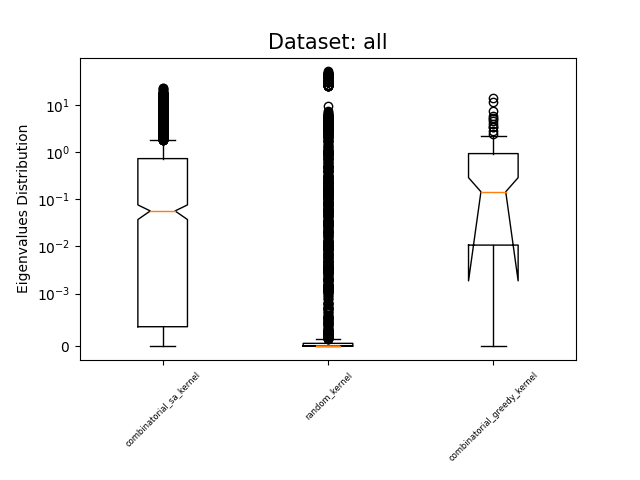
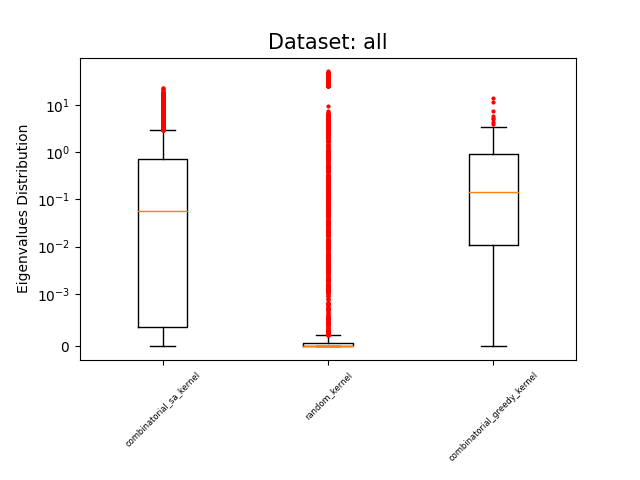
new plots

diff --git a/paper-results-2/combinatorial_spectral_analysis.py b/paper-results-2/combinatorial_spectral_analysis.py
@@ -31,6 +31,7 @@ def plot_kernels_eigenvalues_variance(kernels):
     labels_all = []
     f = plt.figure()
     plt.tight_layout(pad=0.4, w_pad=0.5, h_pad=1.0)
+    red_square = dict(markerfacecolor='r', markersize=3, markeredgewidth=0.0)
 
     for d in kernels.keys():
         reskeys = [k for k in kernels[d].keys()]
@@ -101,7 +102,9 @@ def plot_kernels_eigenvalues_variance(kernels):
         v = [res_dataset[k].tolist() for k in res_dataset.keys()]
         plt.boxplot(
             v,
-            l
+            notch=False,
+            whis=3,
+            flierprops=red_square,
         )
         plt.title('Dataset: ' + d, fontsize=15)
         plt.yscale('symlog', linthresh=10**-3)
@@ -183,7 +186,9 @@ def plot_kernels_eigenvalues_variance(kernels):
     v = [res_all[k].tolist() for k in res_all.keys()]
     plt.boxplot(
         v,
-        l
+        notch=False,
+        whis=3,
+        flierprops=red_square
     )
     plt.title('Dataset: all', fontsize=15)
     plt.yscale('symlog', linthresh=10 ** -3)
